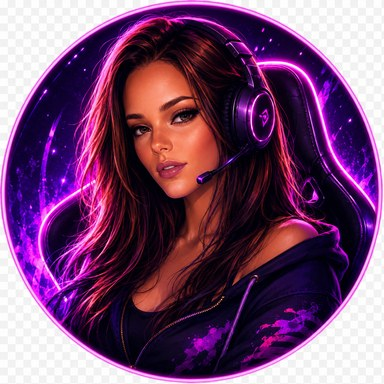
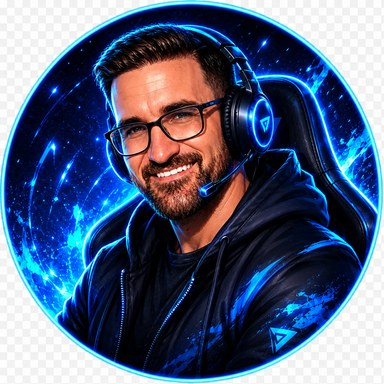
auto-commit for 73a4b409-3bed-4d6c-ac68-e1c595f4c85c

diff --git a/frontend/src/lib/avatars.jsx b/frontend/src/lib/avatars.jsx
@@ -79,12 +79,10 @@ const ICON_AVATARS = {
     funny: [
         icon('fn-popcorn-fg',    '#FBBF24'),
         icon('fn-monster',       '#A78BFA'),
-        icon('fn-monster-mascot','#C084FC'),
         icon('fn-slime',         '#22D3EE'),
         icon('fn-soda',          '#EF4444'),
         icon('fn-noodle',        '#F97316'),
         icon('fn-alien-neon',    '#10B981'),
-        icon('fn-alien-pixel',   '#22D3EE'),
         icon('fn-alien-badge',   '#A78BFA'),
         icon('fn-cactus-alien',  '#84CC16'),
     ],
@@ -114,11 +112,12 @@ const ICON_AVATARS = {
         icon('gm-cyber-portrait',   '#A78BFA'),
         icon('gm-cyber-portrait2',  '#22D3EE'),
         icon('gm-cyborg',           '#06B6D4'),
-        // v2.10.25 — User-supplied "Pro Gamer" duo, anchored in the
-        // exact middle of the row so they read as a featured pair.
-        // Blue (male) + purple (female) match each other visually
-        // and sit between the neon-cyan and neon-pink clusters on
-        // either side.
+        // v2.10.26 — User-supplied "Pro Gamer" duo, anchored in the
+        // exact middle of the row.  Boy (blue glow) first on the
+        // LEFT, girl (purple glow) second on the RIGHT — order set
+        // explicitly per user request.  Filenames swapped on disk
+        // so the `gm-pro-male` JPEG actually contains the male
+        // portrait (the source files were misidentified in v2.10.25).
         icon('gm-pro-male',         '#5DC8FF'),
         icon('gm-pro-female',       '#C084FC'),
         icon('gm-cyborg-neon',      '#A78BFA'),

diff --git a/memory/PRD.md b/memory/PRD.md
@@ -1,5 +1,15 @@
 # ON NOW TV V2 — PRD
 
+> **🟢 v2.10.26 — Gamer pair swap + 2 more duplicate FUNNY icons removed (Feb 9 2026).**
+>
+> User noticed three issues in the avatar picker:
+>
+> 1. **Gamer pair order**: the new Pro-Gamer duo was showing girl-first / boy-second.  User asked for boy-first, girl-right.  Resolved by **swapping the JPEG file contents on disk** rather than the array order so the IDs continue to semantically match the content (`gm-pro-male.jpg` actually contains the male portrait, `gm-pro-female.jpg` the female).
+> 2. **Duplicate purple monsters** in FUNNY: `fn-monster` and `fn-monster-mascot` looked nearly identical to the user.  Kept `fn-monster` (portrait), removed `fn-monster-mascot`.
+> 3. **Duplicate green pixel aliens** in FUNNY: `fn-alien-neon` and `fn-alien-pixel` again nearly identical.  Kept `fn-alien-neon` (cleaner neon shape), removed `fn-alien-pixel`.
+>
+> Result: FUNNY row goes 10 → 8 unique icons; GAMER row stays at 21 with the new duo correctly ordered LEFT-to-RIGHT as boy → girl.  Verified on the live preview: `gm-pro-male` x = 1304 px, `gm-pro-female` x = 1438 px — male first. 77/77 images load, 0 broken.
+
 > **🟢 v2.10.25 — Two new "Pro Gamer" avatars in the middle of the GAMER row (Feb 9 2026).**
 >
 > User dropped two hi-res 1024×1024 PNG portraits (a blue-glow male gamer with headset + a purple/pink-glow female gamer with headset) and asked them placed side-by-side in the middle of the GAMER row.